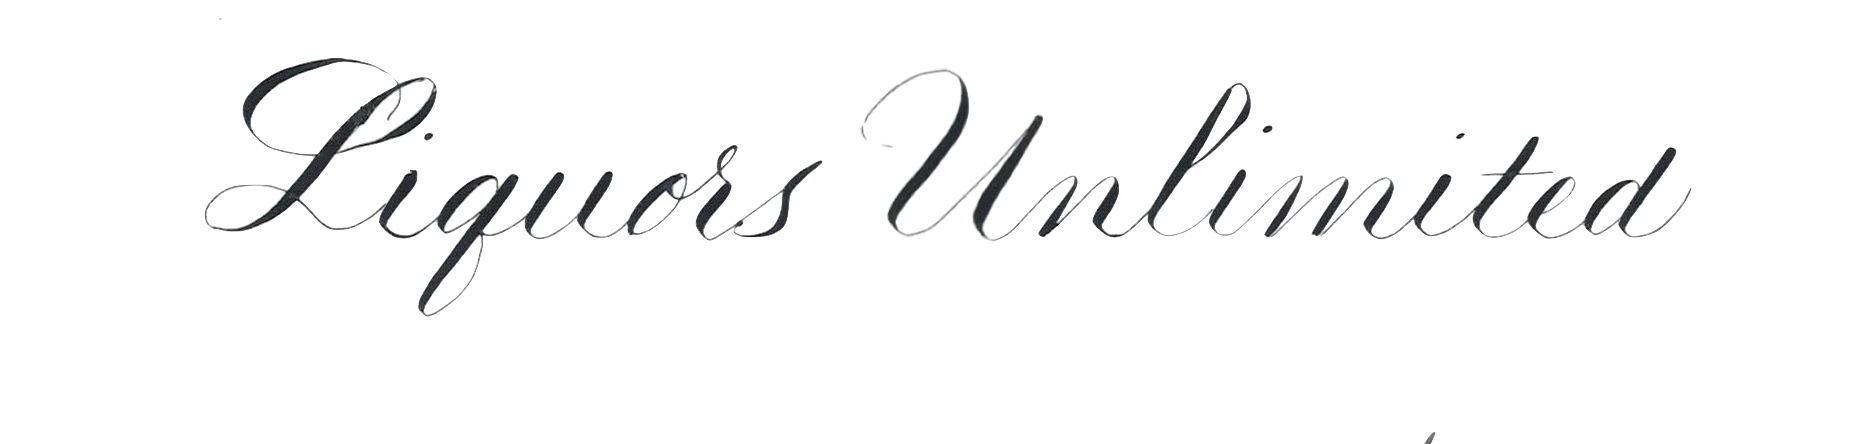
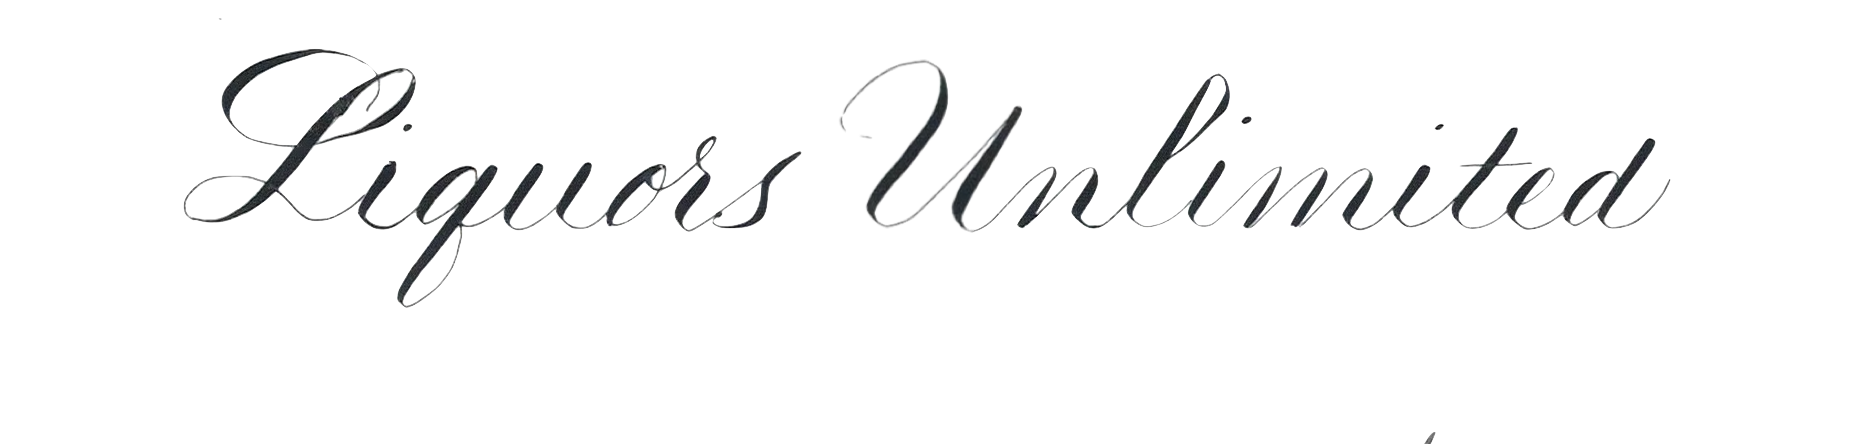
Header and Subheader

Changed region(s): [[0.4688, 0.1171, 0.9062, 0.527], [0.0938, 0.0878, 0.4375, 0.7027]]

diff --git a/Public/CSS/creative.min.css b/Public/CSS/creative.min.css
@@ -250,20 +250,41 @@ a {
   position: absolute;
 }
 .jumbotron .inner{height: 240px; 
-  background:url(../../../img/backdrop.png) center bottom no-repeat; 
+  background:url(../../../img/backdropBench.png) center bottom no-repeat; 
   display:flex; 
   text-shadow: #28288d;
   justify-content: 
   center; align-items:center; 
   flex-direction: row; 
-  
 }
-.jumbotron .inner img{
+/* .jumbotron .inner img{
+  position: absolute;
   width: 70%;
-  margin-top: 55px; 
+  margin-top: 40px; 
+  -webkit-filter: drop-shadow(2px 54px 0.9px rgba(0, 0, 0, 0.02));
+  filter: drop-shadow(2px 54px 0.9px rgba(0, 0, 0, 0.02));
+} */
+.jumbotron .inner img{
+  position: absolute;
+  width: 70%;
+  margin-top: -140px; 
+  color: transparent;
+  -webkit-filter: drop-shadow(0px 183px 0.0px rgb(61, 8, 10));
+  filter: drop-shadow(0px 183px 0.0px rgb(61, 8, 10));
+}
+.jumbotron .inner  h2{
+  font-family: cursive;
+  font-size: 26px;
+  font-weight: 100;
+  text-rendering: geometricPrecision;
+  text-decoration-style: double;
+  text-underline-position: below;
+  text-decoration: overline;
+  margin-top: 172px;
+  bottom: 0%;
   -webkit-filter: drop-shadow(1px 1px 1px rgb(0, 0, 0));
-  filter: drop-shadow(1px 1px 0.3px rgb(0, 0, 0));
-  
+  filter: drop-shadow(2px 24px 1px rgba(0, 0, 0, 0.062));
+
 }
 
 /* .slide2 {

diff --git a/Public/index.html b/Public/index.html
@@ -75,7 +75,9 @@
                 <div class="inner">
                     <!-- <h1 class="liquors"style="font-family:cursive">Liquors</h1>
                     <h1 class="unlimited"style="font-family:cursive">Unlimited</h1> -->
-                    <img src="../img/LUTitleFirstCopy.png"/>
+                    <img src="../img/LUTitleFirstCopy.png">
+                        <h2>Fine Wine and Spirits</h2>
+                    </img>
                     <!--   -->
         
                 </div>
